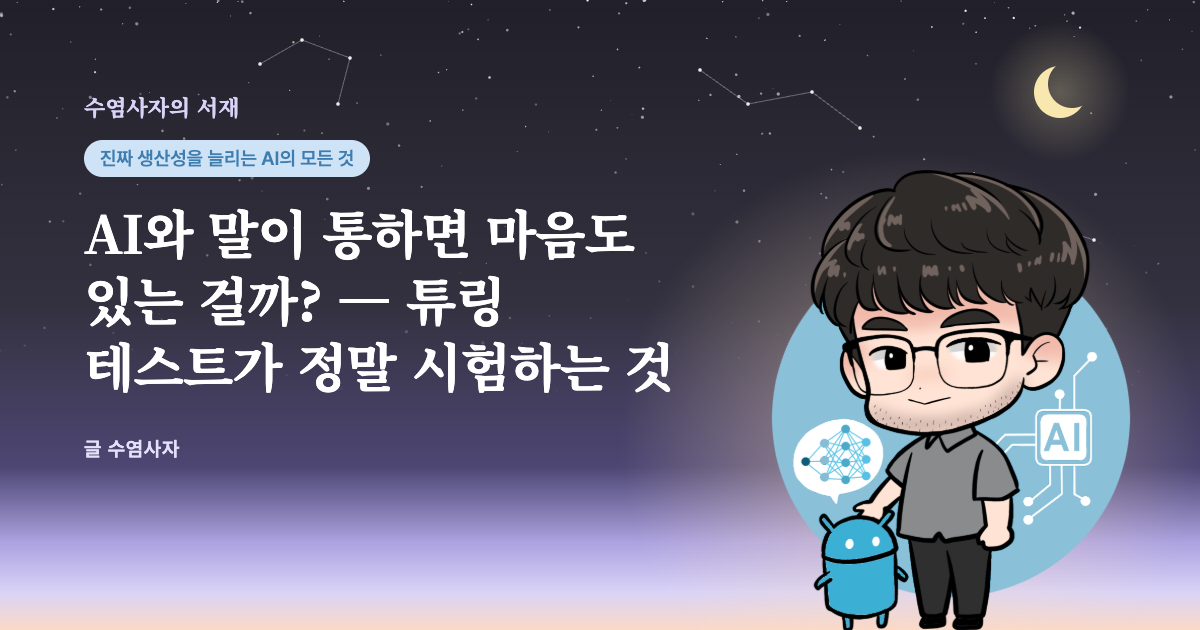
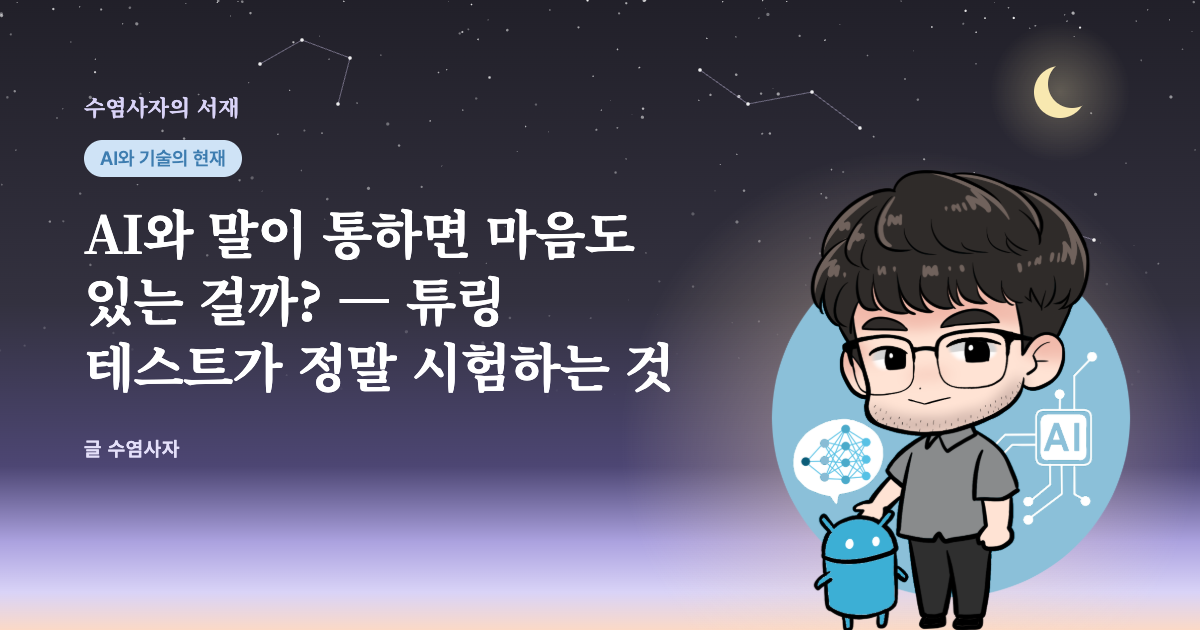
feat: AI 서가를 동향(AI와 기술의 현재)과 생산성(진짜 생산성을 늘리는 AI의 모든 것)으로 나눔
Claude-Session: https://claude.ai/code/session_01J36DQQsi1iZDy94NMGj8jH

Changed region(s): [[0.0617, 0.2111, 0.3083, 0.3016]]

diff --git a/src/config/site.ts b/src/config/site.ts
@@ -14,14 +14,15 @@ export type Category = { slug: string; name: string; color: PaletteKey }
 // 분야 추가·수정은 이 목록 한 곳에서 한다. 순서는 머리띠·꼬리말·서가에 나오는 순서다.
 // 분야는 학문 이름이 아니라 독자가 얻으러 오는 것으로 묶는다(서점의 생활 제안형 진열).
 // 이름만 보고 안에 무엇이 있을지 맞힐 수 있어야 한다 — 맞지 않는 글은 다른 서가로 보낸다.
-// 색은 분야마다 명시한다 — 뜻이 가까운 분야끼리 한 색(돈·AI).
+// 색은 분야마다 명시한다 — 뜻이 가까운 분야끼리 한 색(돈·AI 동향, 일과 학습·AI 생산성).
 const CATEGORY_LIST: [slug: string, name: string, color: PaletteKey][] = [
   ['fact-check', '진실 혹은 거짓', 'peach'],
   ['learning', '일과 학습의 기술', 'butter'],
   ['philosophy', '철학의 아름다움', 'lav'],
   ['classics', '다시 보는 고전과 예술', 'rose'],
   ['economy', '돈과 세상의 원리', 'sky'],
-  ['tech', '진짜 생산성을 늘리는 AI의 모든 것', 'sky'],
+  ['ai-work', '진짜 생산성을 늘리는 AI의 모든 것', 'butter'],
+  ['tech', 'AI와 기술의 현재', 'sky'],
   ['nature', '인류와 생명의 수수께끼', 'mint'],
 ]
 

diff --git a/tests/posts.test.ts b/tests/posts.test.ts
@@ -42,10 +42,11 @@ describe('field colours', () => {
     ['philosophy', '철학의 아름다움', 'lav'],
     ['classics', '다시 보는 고전과 예술', 'rose'],
     ['economy', '돈과 세상의 원리', 'sky'],
-    ['tech', '진짜 생산성을 늘리는 AI의 모든 것', 'sky'],
+    ['ai-work', '진짜 생산성을 늘리는 AI의 모든 것', 'butter'],
+    ['tech', 'AI와 기술의 현재', 'sky'],
     ['nature', '인류와 생명의 수수께끼', 'mint'],
   ]
-  it('assigns each of the seven shelves its colour, in the same menu order', () => {
+  it('assigns each of the eight shelves its colour, in the same menu order', () => {
     expect(CATEGORIES.map((c) => [c.slug, c.name, c.color])).toEqual(TABLE)
   })
   it('uses palette colours only', () => {

diff --git a/src/config/orb-words.ts b/src/config/orb-words.ts
@@ -6,6 +6,7 @@ export const ORB_WORDS: Record<string, string[]> = {
   philosophy: ['소피스트', '이데아', '실존', '인식론', '덕 윤리', '스토아'],
   classics: ['서사', '비극', '은유', '원근법', '미학', '숭고'],
   economy: ['공정가치', '현금흐름', '평가손실', '한계효용', '인플레이션', '기업가치'],
+  'ai-work': ['업무 자동화', '프롬프트', 'AI 에이전트', '작업 흐름', '생산성', '글쓰기 보조'],
   tech: ['언어 모델', '알고리즘', '반도체', '신경망', '자동화', '데이터'],
   nature: ['신석기', '진화', '공진화', '생태계', '유전자', '꽃가루받이'],
 }

diff --git a/tests/build.test.ts b/tests/build.test.ts
@@ -687,7 +687,7 @@ describe('knowledge sphere', () => {
     expect(cv).toHaveLength(1)
     expect(cv[0].getAttribute('aria-hidden')).toBe('true')
     const fields = JSON.parse(cv[0].getAttribute('data-fields')!)
-    expect(fields).toHaveLength(7)
+    expect(fields).toHaveLength(8)
     expect(fields.find((f: { slug: string }) => f.slug === 'economy').words).toContain('공정가치')
     for (const f of files.filter((f) => f.endsWith('.html') && !f.endsWith(`${OUT}/index.html`)))
       expect(readFileSync(f, 'utf8')).not.toContain('s-orb')

diff --git a/tests/url.test.ts b/tests/url.test.ts
@@ -13,7 +13,7 @@ describe('joinBase', () => {
 })
 
 describe('CATEGORIES', () => {
-  it('gives the seventh shelf its own pastel pair', () => expect(CATEGORIES[6].color).toBe('mint'))
+  it('gives the last shelf its own pastel pair', () => expect(CATEGORIES[7].color).toBe('mint'))
   it('has unique names and slugs', () => {
     expect(new Set(CATEGORIES.map((c) => c.name)).size).toBe(CATEGORIES.length)
     expect(new Set(CATEGORIES.map((c) => c.slug)).size).toBe(CATEGORIES.length)
